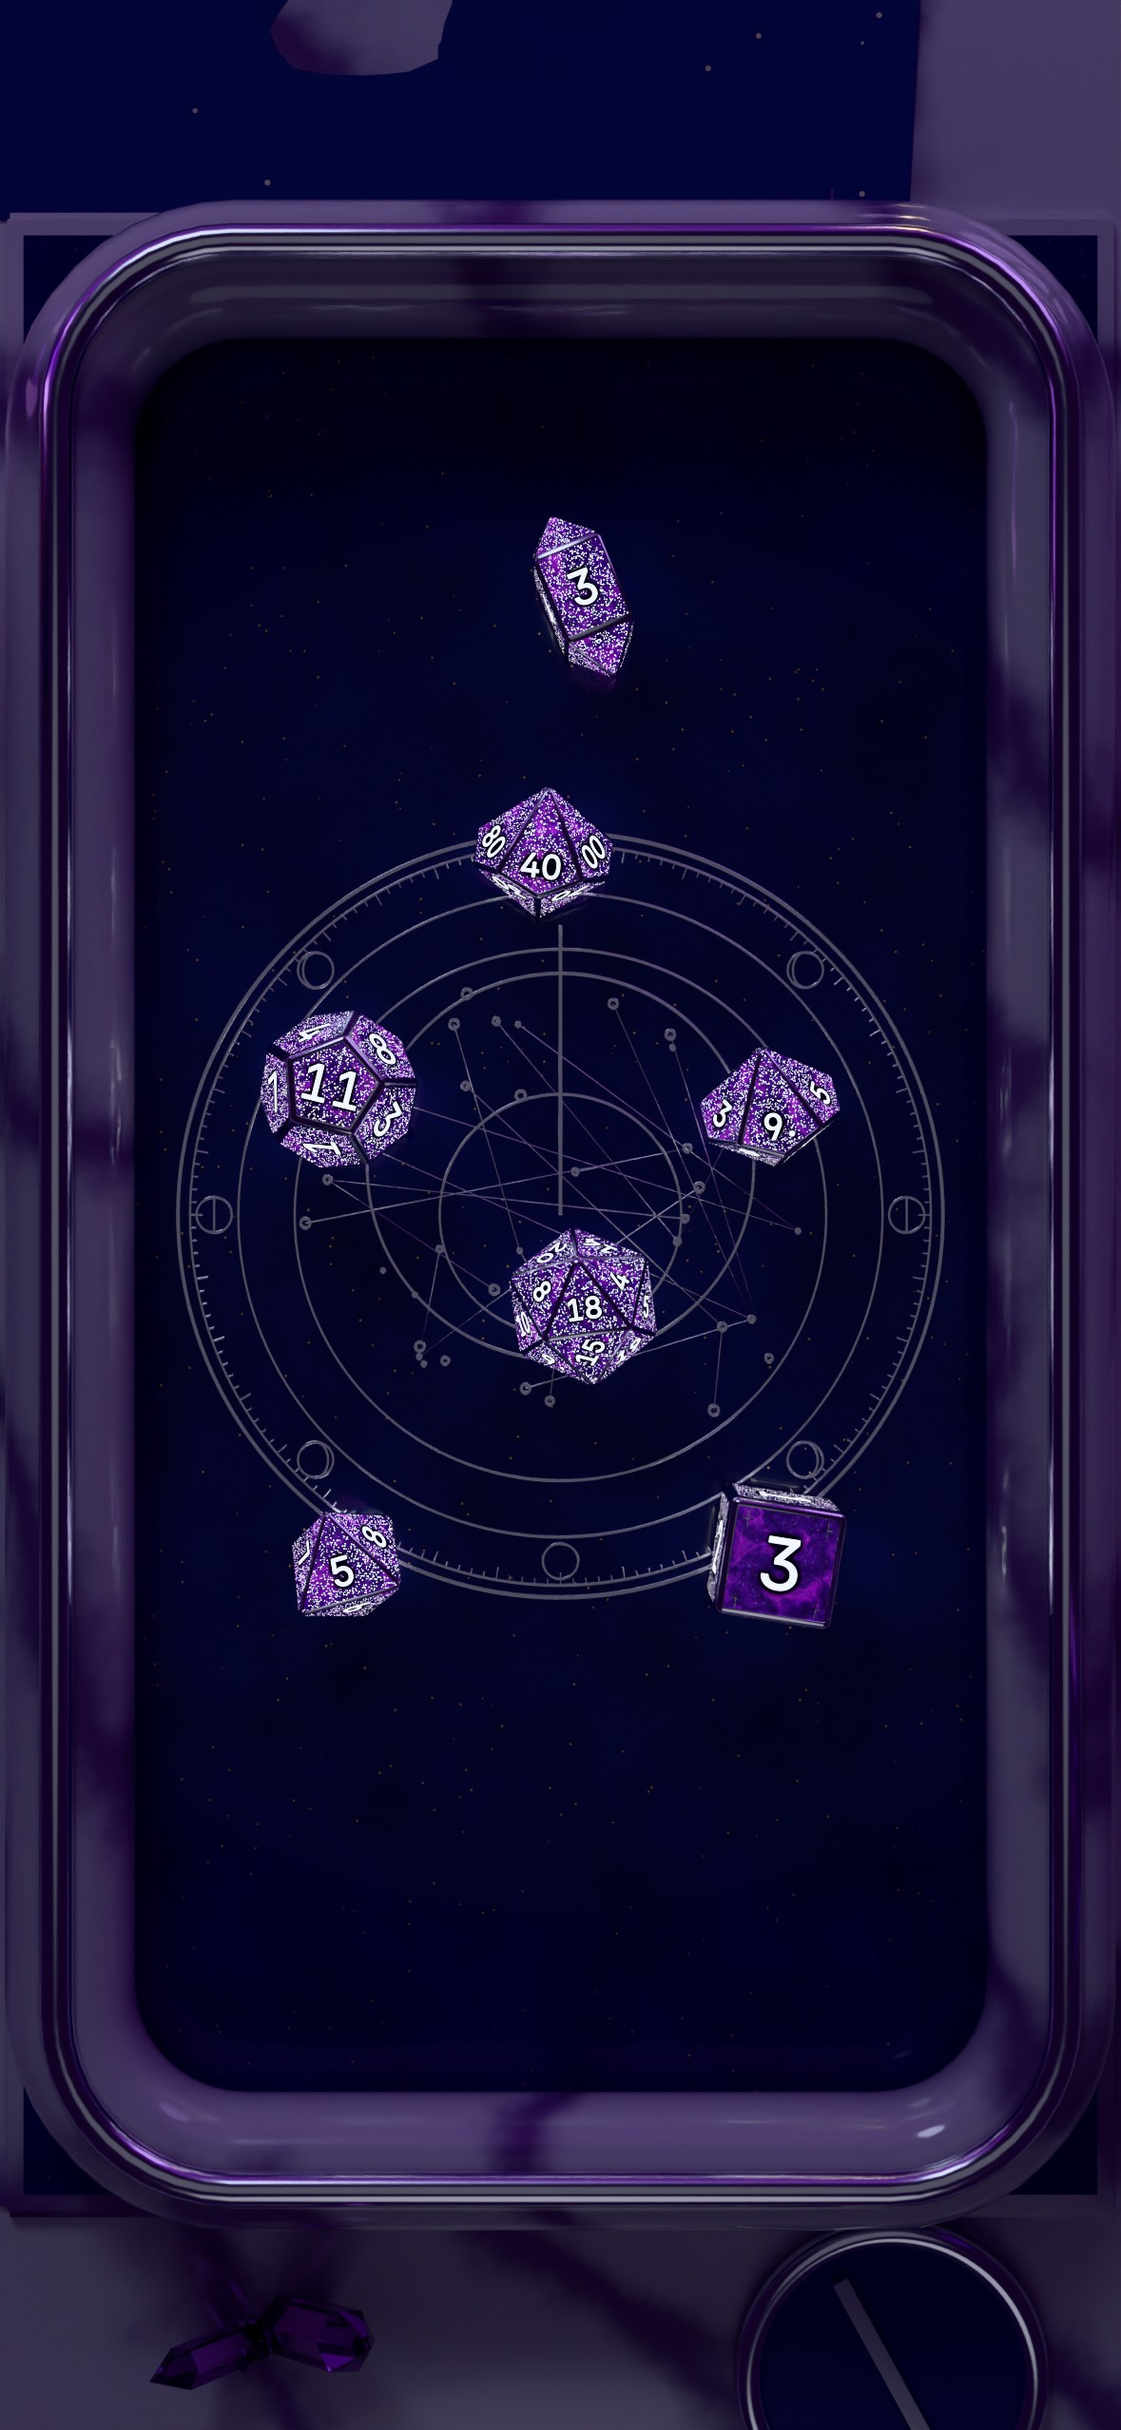
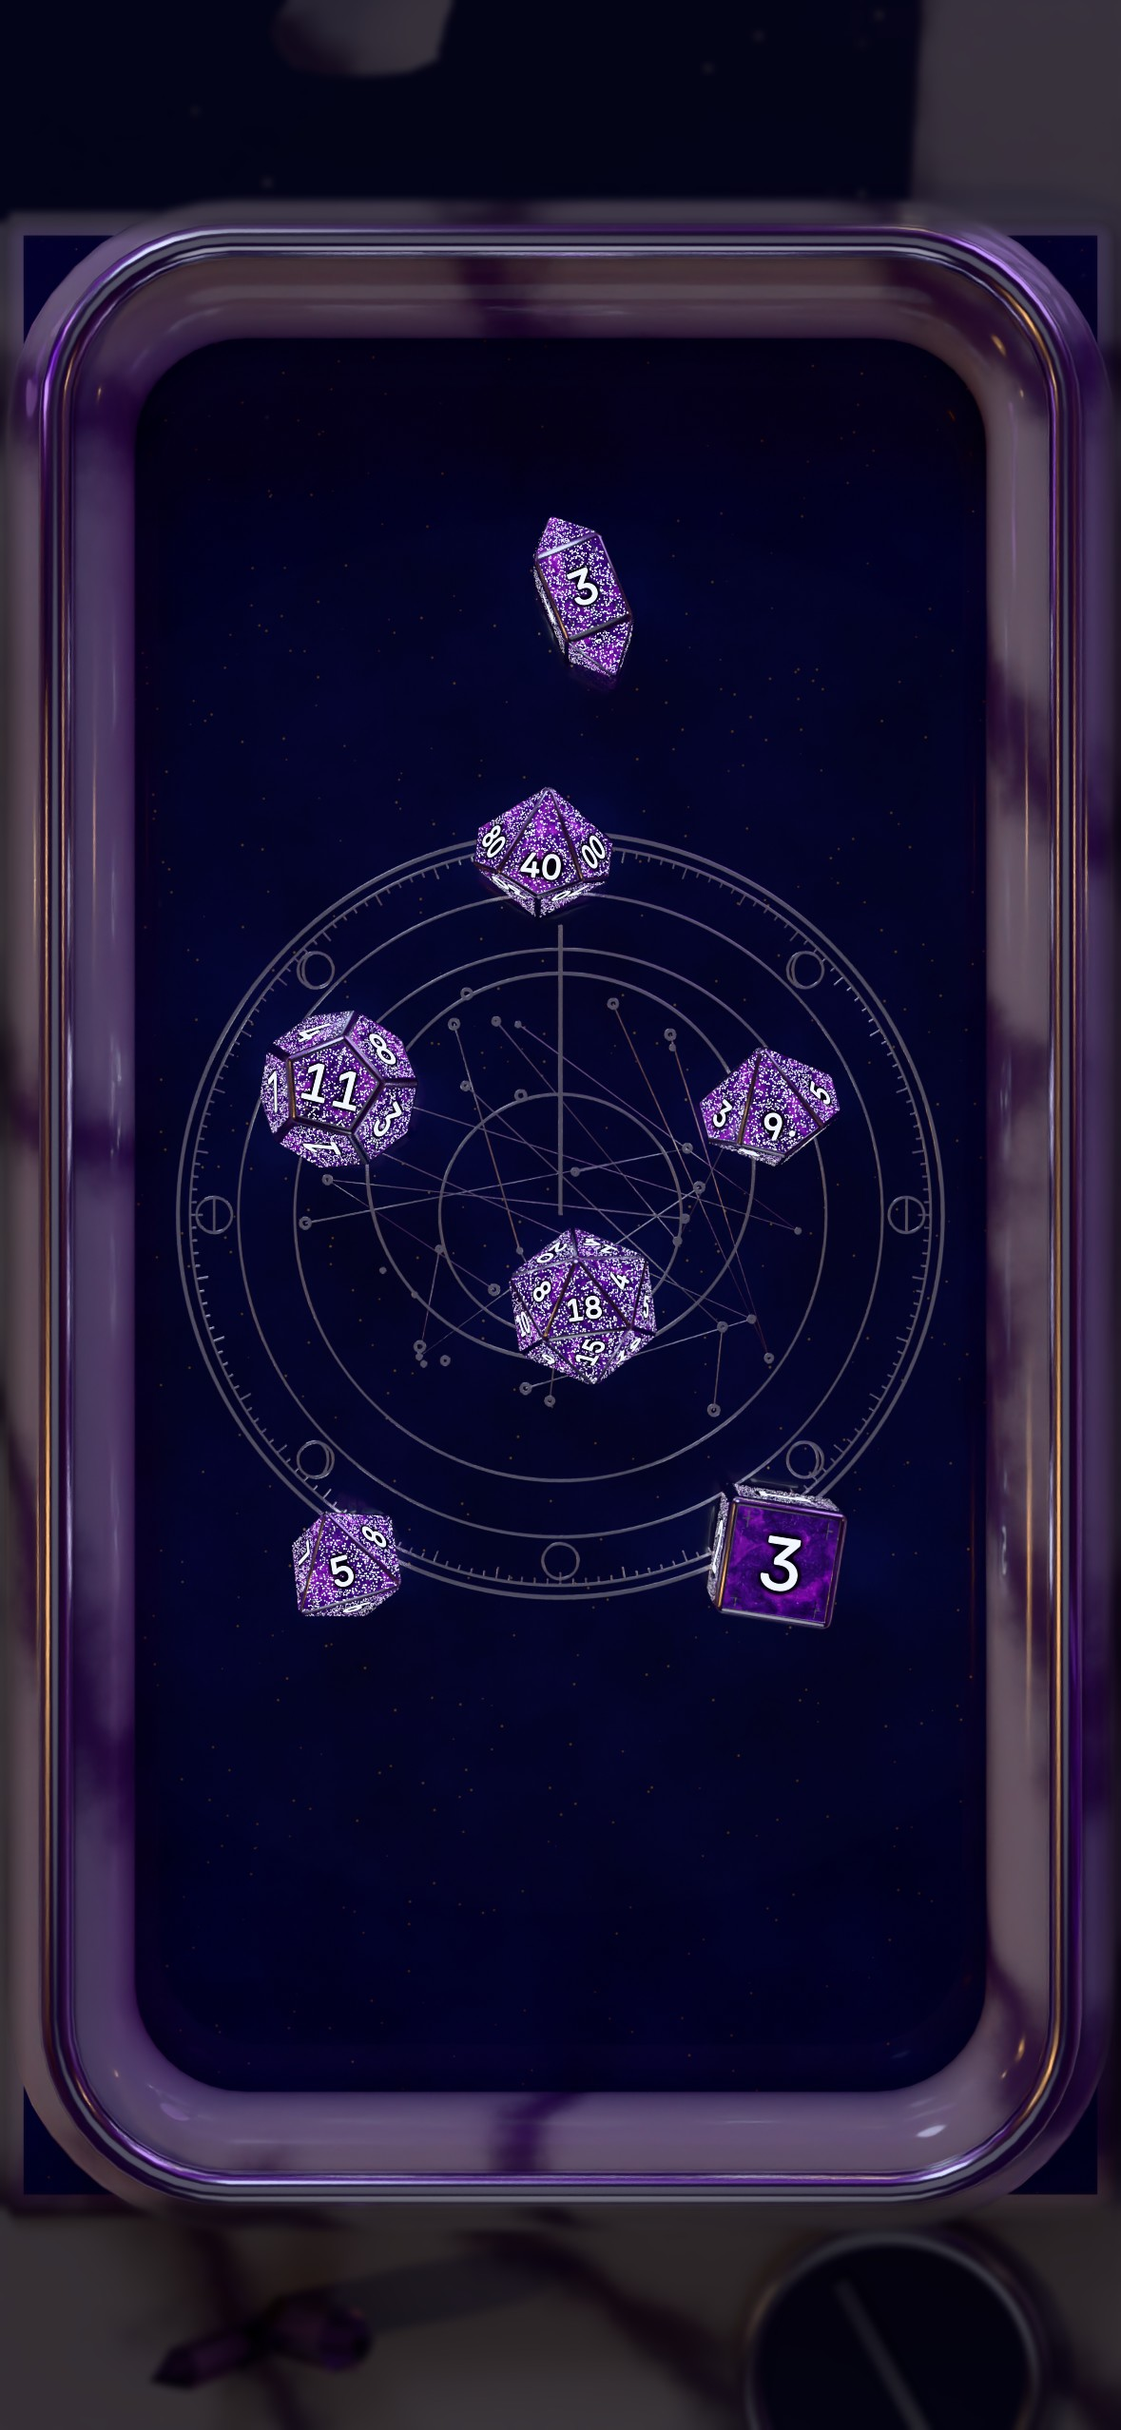
Game rooms: Celestial observatory loggia; open-back shell, armchair, leather, half-timber in the kit

diff --git a/dart3d/example/tool/dice_lookdev/build_env_hearthside.py b/dart3d/example/tool/dice_lookdev/build_env_hearthside.py
@@ -16,6 +16,7 @@ import bpy
 
 import env_common as E
 import env_props as P
+import room_common as RC
 
 W, D = E.TRAY_W, E.TRAY_D
 
@@ -106,9 +107,7 @@ def build(scene):
             E.sphere("bud", 0.35, (x0 - math.sin(a) * (-11 - j * 0.7), y0 - 11 - j * 0.7, 0.55), bud, subdiv=1,
                      scale=(1, 1.4, 1))
     P.candle(scene, W / 2 + 10, top + 8, 0.0, h=10, seed=4, energy=45)
-    # the hearth: a warm glow + ember light behind the table
-    E.cube("hearth", (80, 10, 40), (0, top + 55, 20), E.simple("Hearth stone", (0.08, 0.06, 0.05), 0.9))
-    E.cube("hearth_mouth", (40, 3, 22), (0, top + 49.5, 12), E.emissive("Hearth fire", (1.0, 0.38, 0.08), 6.0))
+    # the hearth's glow on the tray (the fireplace itself is in room())
     E.light(scene, "AREA", "fire", (0, top + 45, 12), 16000, color=(1.0, 0.5, 0.2), size=35, target=(0, 0, 0))
     E.light(scene, "AREA", "cool_fill", (-50, -40, 40), 1200, color=(0.55, 0.65, 1.0), size=40, target=(0, 0, 0))
     # reading key from the side (its hotspot misses the top faces), strong
@@ -123,4 +122,66 @@ def build(scene):
                         "d10t": ((-0.3, 9.0), 40, -6), "d8": ((-3.8, -8.6), 5, 16), "d6": ((3.8, -8.4), 3, -9),
                         "d4": ((0.4, 13.0), 3, 22)},
         hero=dict(dist=32, elev=30, az=-8, lens=65, fstop=2.8),
+        play_view=True, tray_half=(W / 2 + 4, D / 2 + 6), room_cam=room(scene),
     )
+
+
+def room(scene):
+    """The fireside reading nook (concept: room-concepts/hearthside-room).
+
+    A rough-stone fireplace right behind the oak table, bookcases either
+    side of it, a leather wing armchair with a wine-red throw by the
+    rain-streaked window on the right, a lavender jug on the sill, a
+    patterned rug. Lights from four sides: the fire (warm key from the
+    back), the window (cool blue-grey fill from the right), a violet-glass
+    lantern (the set's accent, left) and a brass floor lamp by the chair;
+    plus the tray's reading key.
+    """
+    wall = RC.plaster("Nook plaster", (0.22, 0.17, 0.12))
+    oak = P.dark_wood("Nook oak", c1=(0.05, 0.025, 0.012), c2=(0.16, 0.085, 0.04))
+    RC.shell(half_w=180, back=150, front=-190, height=260, wall=wall, floor=RC.planks(),
+             openings={"right": [(70, 45, 80, 110)]})
+    RC.beams(oak, n=3)
+    RC.work_table(200, 150, top_z=0.0, thick=6.0, mat=oak, leg_r=6, y=20, top=False)
+    RC.fireplace(scene, "back", 0, w=150, h=125, depth=40, energy=120000, seed=3,
+                 mat=RC.stone("Nook fieldstone", (0.08, 0.07, 0.06), (0.24, 0.2, 0.16), scale=0.03, blocks=True))
+    for u, seed in ((-125, 5), (125, 6)):
+        RC.bookshelf("back", u, w=90, h=220, depth=30, rows=7, seed=seed, mat=oak)
+    rain = RC.sky("Rainy dusk", (0.05, 0.07, 0.14), (0.14, 0.16, 0.26), stars=0.0, strength=0.8,
+                  skyline=((0.03, 0.04, 0.07), 0.3))
+    RC.window("right", 70, 45, 80, 110, rain, oak, mullions=(2, 3), glow=(45000, (0.55, 0.65, 0.95)))
+    # rain streaks on the glass (thin emissive-ish droplets on a pane)
+    drops, k = E.material("Rain on glass")
+    obj = k.coords().outputs["Object"]
+    v = k.voronoi(obj, 0.35)
+    dr = k.math("LESS_THAN", v.outputs["Distance"], 0.08)
+    k.surface(k.mix_shader(dr, k.node("ShaderNodeBsdfTransparent").outputs[0],
+                           k.bsdf(Base_Color=(0.8, 0.85, 1.0, 1), Roughness=0.05, Transmission_Weight=0.8,
+                                  Emission_Color=(0.5, 0.6, 0.9, 1), Emission_Strength=0.6)))
+    pane = E.plane("rain_pane", 80, 110, RC.to_world("right", 70, (0, 4, 45)), drops)
+    pane.rotation_euler = (math.radians(90), 0, math.radians(-90))
+    pane.visible_shadow = False
+    # the armchair by the window with a throw; a jug of lavender on the sill
+    RC.armchair(120, 95, rot=math.radians(150), mat=RC.leather("Chair leather", (0.14, 0.04, 0.025)),
+                throw=P.velvet("Throw wool", color=(0.2, 0.02, 0.04), stars=False))
+    jug = RC.to_world("right", 40, (0, -4, RC.FLOOR_Z + 121 - 76 + 76 - 10))
+    E.cylinder("lavender_jug", 7, 18, (jug.x, jug.y, 45 - 55 + 9 + 2), E.simple("Jug glaze", (0.3, 0.3, 0.32), 0.3),
+               segs=24, bevel=1.0)
+    rng = random.Random(4)
+    bud = E.simple("Sill lavender", (0.35, 0.22, 0.6), 0.6)
+    for i in range(12):
+        bx, by = jug.x + rng.uniform(-6, 6), jug.y + rng.uniform(-6, 6)
+        E.cylinder("sill_stem", 0.3, 26, (bx, by, 12 + 13), E.simple("Sill stem", (0.18, 0.25, 0.12), 0.6), segs=6)
+        E.sphere("sill_bud", 1.2, (bx, by, 12 + 26 + 3), bud, subdiv=1, scale=(1, 1, 3))
+    # a brass floor lamp beside the chair (warm, right-front) and a violet lantern (left)
+    brass = P.brass("Lamp brass", worn=0.4)
+    E.cylinder("floor_lamp_post", 1.5, 150, (150, 20, RC.FLOOR_Z + 75), brass, segs=12)
+    E.cylinder("floor_lamp_foot", 14, 3, (150, 20, RC.FLOOR_Z + 1.5), brass, segs=32)
+    E.cylinder("floor_lamp_shade", 22, 26, (150, 20, RC.FLOOR_Z + 160), E.simple("Lamp shade", (0.6, 0.45, 0.25), 0.8,
+               Transmission_Weight=0.3, Emission_Color=(1.0, 0.7, 0.4, 1), Emission_Strength=1.0), segs=32, r2=13,
+               cap=False).visible_shadow = False
+    E.light(scene, "POINT", "floor_lamp", (150, 20, RC.FLOOR_Z + 155), 25000, color=(1.0, 0.72, 0.45), size=10)
+    RC.hanging_lantern(scene, -95, 10, 80, energy=18000, color=(0.75, 0.4, 1.0), glass_color=(0.6, 0.3, 0.9),
+                       mat=brass)
+    RC.rug(0, -20, 280, 220, (0.25, 0.08, 0.05), (0.08, 0.05, 0.1), name="Nook rug")
+    return dict(loc=(-14, -72, 44), target=(4, 100, 2), lens=20, fstop=4.0, focus=(0, 0, 4))

diff --git a/dart3d/example/tool/dice_lookdev/build_env_oldroad.py b/dart3d/example/tool/dice_lookdev/build_env_oldroad.py
@@ -11,6 +11,7 @@ import math
 
 import env_common as E
 import env_props as P
+import room_common as RC
 
 W, D = E.TRAY_W, E.TRAY_D
 RIM_T, RIM_H = 2.4, 2.6
@@ -80,6 +81,61 @@ def build(scene):
     E.cube("dagger_sheath", (1.6, 13, 0.9), (1.0, bot - 4.4, 0.45), leather("Sheath", (0.12, 0.05, 0.02)),
            bevel=0.3).rotation_euler = (0, 0, math.radians(84))
     E.haze_box("haze", (160, 180, 70), (0, 20, 34), 0.003, color=(1.0, 0.9, 0.8), noise_scale=0.03)
+    rc = room(scene, table, top)
     return dict(
         samples=128, exposure=0.9, topdown=dict(width=W + 2 * RIM_T + 1.0), hero=dict(dist=32, elev=30, az=-6, lens=65, fstop=2.8),
+        play_view=True, tray_half=(W / 2 + RIM_T, D / 2 + RIM_T), room_cam=rc,
     )
+
+
+def room(scene, table, top):
+    """The wayfarer's inn corner (concept: room-concepts/oldroad-room).
+
+    Timber-and-plaster walls, a small window at the back onto the blue hour,
+    a fieldstone hearth on the right wall with a fur-covered stool before it,
+    a travel pack on a chair and a walking staff leaning on the table, a
+    barrel and a shelf of mugs and jugs. Lights from four sides: the tin
+    lantern on the table (warm key, left), the hearth (warm side light,
+    right), the window (cool dusk, back) and a candle on the side table
+    (back-right); plus the tray's overhead and warm key.
+    """
+    wy = top + 75
+    wall = RC.plaster("Inn plaster", (0.3, 0.24, 0.17))
+    timber = P.dark_wood("Inn timber", c1=(0.03, 0.017, 0.008), c2=(0.09, 0.05, 0.022), rough=0.8, varnish=0.0)
+    RC.shell(half_w=170, back=wy, front=-180, height=240, wall=wall, floor=RC.planks("Inn floor"),
+             openings={"back": [(0, 45, 70, 80)]})
+    RC.half_timber("back", (-165, -60, 60, 165), timber, rails=(RC.FLOOR_Z + 95,))
+    RC.half_timber("left", (-150, -40, 70), timber, rails=(RC.FLOOR_Z + 95,))
+    RC.half_timber("right", (-150, 70), timber, rails=(RC.FLOOR_Z + 170,), braces=False)
+    RC.beams(timber, n=3, size=(18, 22))
+    dusk = RC.sky("Inn dusk", (0.03, 0.06, 0.18), (0.35, 0.22, 0.3), strength=0.8, skyline=((0.02, 0.025, 0.05), 0.3))
+    RC.window("back", 0, 45, 70, 80, dusk, timber, mullions=(1, 1), sill=True, glow=(18000, (0.55, 0.55, 1.0)))
+    RC.work_table(200, 150, top_z=0.0, thick=6.0, mat=table, leg_r=7, y=20, top=False)
+    RC.fireplace(scene, "right", -30, w=120, h=110, depth=45, energy=130000, seed=7,
+                 mat=RC.stone("Inn fieldstone", (0.1, 0.085, 0.07), (0.26, 0.22, 0.17), scale=0.03))
+    fur = E.simple("Stool fur", (0.25, 0.2, 0.15), 0.95, Sheen_Weight=1.0)
+    E.cube("stool_seat", (40, 34, 6), (105, -40, RC.FLOOR_Z + 40), timber, bevel=0.8)
+    for sx in (-1, 1):
+        for sy in (-1, 1):
+            E.cube("stool_leg", (4, 4, 38), (105 + sx * 16, -40 + sy * 13, RC.FLOOR_Z + 19), timber)
+    E.rock("stool_fur", 22, (105, -40, RC.FLOOR_Z + 46), fur, seed=8, squash=(1.0, 0.85, 0.25), strength=0.25)
+    # the travel pack on a chair behind the table, the staff leaning on the table edge
+    RC.chair(60, 115, rot=math.radians(180), mat=timber)
+    pack = leather("Pack canvas", (0.12, 0.1, 0.06))
+    E.rock("pack", 22, (60, 110, RC.FLOOR_Z + 68), pack, seed=11, squash=(0.9, 0.6, 1.3), strength=0.15)
+    E.cylinder("bedroll", 9, 44, (60, 110, RC.FLOOR_Z + 98), E.simple("Bedroll wool", (0.12, 0.14, 0.08), 0.9),
+               segs=24).rotation_euler = (0, math.radians(90), 0)
+    for sx in (-1, 1):
+        E.cube("pack_strap", (3, 0.6, 40), (60 + sx * 10, 96, RC.FLOOR_Z + 70), leather("Pack strap"))
+    staff = E.cylinder("staff", 2.0, 170, (95, 60, RC.FLOOR_Z + 82), timber, segs=12, r2=1.4)
+    staff.rotation_euler = (math.radians(8), math.radians(-12), 0)
+    RC.barrel(-140, 110, r=24, h=80, mat=timber)
+    RC.wall_shelf("left", 40, 55, w=120, seed=21, kind="jars",
+                  palette=[(0.25, 0.15, 0.08), (0.3, 0.28, 0.25), (0.12, 0.08, 0.05)], mat=timber)
+    # side table with a candle, back-right
+    E.cube("side_table", (45, 45, 4), (130, 120, RC.FLOOR_Z + 72), timber, bevel=0.5)
+    E.cylinder("side_table_leg", 3, 70, (130, 120, RC.FLOOR_Z + 35), timber, segs=12)
+    P.candle(scene, 130, 120, RC.FLOOR_Z + 74, h=10, r=1.8, seed=9, light=False)
+    E.light(scene, "POINT", "side_candle", (130, 120, RC.FLOOR_Z + 90), 4000, color=(1.0, 0.6, 0.3), size=2)
+    RC.rug(0, -40, 240, 160, (0.3, 0.08, 0.05), (0.12, 0.05, 0.03), name="Inn rug")
+    return dict(loc=(18, -70, 40), target=(-2, 90, 4), lens=20, fstop=4.0, focus=(0, 0, 2))

diff --git a/dart3d/example/tool/dice_lookdev/room_common.py b/dart3d/example/tool/dice_lookdev/room_common.py
@@ -248,6 +248,31 @@ def shell(half_w=220, back=260, front=-160, height=300, wall=None, floor=None, c
         E.plane("ceiling", 2 * half_w + 40, back - front + 40, (0, (back + front) / 2, FLOOR_Z + height), ceiling)
 
 
+def half_timber(wall, us, mat, rails=(), size=16, braces=True):
+    """Timber framing on a plaster wall: posts at the u positions in `us`,
+    horizontal rails at the (world) heights in `rails`, and diagonal braces."""
+    r = _ROOM
+    parts = []
+    L = 2 * r["half_w"] if wall == "back" else r["back"] - r["front"]
+    uc = 0.0 if wall == "back" else (r["back"] + r["front"]) / 2
+    sgn = -1 if wall == "right" else 1  # local x runs along -y on the right wall
+    h = r["height"]
+    for u in us:
+        parts.append(E.cube("timber_post", (size, 6, h), ((u - uc) * sgn, -3, h / 2), mat))
+    for z in rails:
+        parts.append(E.cube("timber_rail", (L, 6, size * 0.8), (0, -3, z - FLOOR_Z), mat))
+    if braces and len(us) > 1 and rails:
+        z0 = rails[0] - FLOOR_Z
+        for a, b in zip(us[:-1], us[1:]):
+            ln = math.hypot(b - a, h - z0)
+            br = E.cube("timber_brace", (size * 0.7, 5, ln * 0.5), (((a + b) / 2 - uc) * sgn - (b - a) * 0.25 * sgn,
+                                                                     -3, z0 + (h - z0) * 0.25), mat)
+            br.rotation_euler = (0, -math.atan2(b - a, h - z0) * sgn * 0.9, 0)
+            parts.append(br)
+    loc, rz = _wall_frame(wall, uc)
+    return _group("half_timber", parts, loc + Vector((0, 0, FLOOR_Z)), rz)
+
+
 def beams(mat, n=4, size=(22, 26), z=None, along="x"):
     """Heavy ceiling beams (timber frame)."""
     r = _ROOM
@@ -615,6 +640,32 @@ def chair(x, y, rot=0.0, mat=None, seat_h=46, back_h=50, w=44):
     parts.append(E.cube("chair_rail", (w, 3, 12), (0, w / 2 - 3, seat_h + back_h - 8), mat, bevel=0.5))
     parts.append(E.cube("chair_rail", (w, 3, 6), (0, w / 2 - 3, seat_h + back_h * 0.45), mat, bevel=0.5))
     return _group("chair", parts, Vector((x, y, FLOOR_Z)), rot)
+
+
+def leather(name="Leather", color=(0.12, 0.035, 0.02)):
+    m, k = E.material(name)
+    obj = k.coords().outputs["Object"]
+    n = k.noise(obj, 0.6, 6, 0.6).outputs["Fac"]
+    col = k.mix(k.math("MULTIPLY", n, 0.5), (*color, 1), tuple(c * 0.45 for c in color) + (1,))
+    k.surface(k.bsdf(Base_Color=col, Roughness=k.math("ADD", k.math("MULTIPLY", n, 0.3), 0.35), Coat_Weight=0.2,
+                     Normal=k.bump(k.noise(obj, 3.0, 4).outputs["Fac"], 0.2, 0.2)))
+    return m
+
+
+def armchair(x, y, rot=0.0, mat=None, w=90, throw=None):
+    """An overstuffed wing armchair (rounded blocks) facing -y before rotation;
+    throw = a material for a blanket draped over one arm."""
+    mat = mat or leather()
+    parts = [E.cube("chair_base", (w, 80, 38), (0, 0, 19), mat, bevel=6),
+             E.cube("chair_cushion", (w - 30, 70, 14), (0, -5, 44), mat, bevel=5),
+             E.cube("chair_back", (w, 20, 70), (0, 32, 68), mat, bevel=7)]
+    for sx in (-1, 1):
+        parts.append(E.cube("chair_arm", (16, 78, 26), (sx * (w / 2 - 8), 0, 50), mat, bevel=6))
+        parts.append(E.cube("chair_wing", (12, 24, 40), (sx * (w / 2 - 6), 26, 88), mat, bevel=5))
+    if throw:
+        t = E.rock("chair_throw", 26, (w / 2 - 12, -5, 60), throw, seed=5, squash=(0.5, 1.3, 0.7), strength=0.3)
+        parts.append(t)
+    return _group("armchair", parts, Vector((x, y, FLOOR_Z)), rot)
 
 
 def cabinet(wall, u, w=90, h=90, depth=55, z0=None, mat=None, top_mat=None, doors=2):

diff --git a/dart3d/example/tool/dice_lookdev/build_env_celestial.py b/dart3d/example/tool/dice_lookdev/build_env_celestial.py
@@ -170,8 +170,13 @@ def room(scene, am):
     a brass lantern hung on the left (warm), the amethyst glow (violet,
     right) and two sconces on the side walls; plus the tray's soft front.
     """
-    mar = marble("Loggia marble")
-    RC.shell(half_w=200, back=95, front=-200, height=320, wall=mar, floor=marble("Loggia floor"), floor_z=-60.0,
+    mar, k = E.material("Loggia marble")  # pale, fine-veined (the tray's marble is too bold at room scale)
+    obj = k.coords().outputs["Object"]
+    vein = k.noise(obj, 0.02, 8, 0.7, dist=2.0).outputs["Fac"]
+    v = k.math("LESS_THAN", k.math("ABSOLUTE", k.math("SUBTRACT", vein, 0.5)), 0.012)
+    k.surface(k.bsdf(Base_Color=k.mix(v, (0.62, 0.6, 0.66, 1), (0.3, 0.28, 0.36, 1)), Roughness=0.25,
+                     Coat_Weight=0.3))
+    RC.shell(half_w=200, back=95, front=-200, height=320, wall=mar, floor=RC.tiles("Loggia floor", (0.35, 0.33, 0.4), (0.06, 0.05, 0.08), scale=0.02), floor_z=-60.0,
              back_wall=False)
     RC.work_table(180, 140, top_z=-6.0, thick=0.1, mat=mar, leg_r=7, y=20, top=False)
     # the arcade: columns at the balustrade and a lintel under the open sky
@@ -202,4 +207,19 @@ def room(scene, am):
     RC.hanging_lantern(scene, -80, -20, 70, energy=35000, mat=brass, glass_color=(1.0, 0.75, 0.45))
     for side in ("left", "right"):
         RC.sconce(scene, side, 40, 120, energy=9000)
-    return dict(loc=(16, -80, 48), target=(0, 120, 20), lens=20, fstop=4.0, focus=(0, 0, 2))
+    # a star layer in front of the nebula, sized for the room shot
+    sm, k = E.material("Room stars")
+    tc = k.coords().outputs["Generated"]
+    v = k.voronoi(tc, 90.0)
+    st = k.math("LESS_THAN", v.outputs["Distance"], k.math("MULTIPLY", v.outputs["Color"], 0.07))
+    k.surface(k.mix_shader(st, k.node("ShaderNodeBsdfTransparent").outputs[0],
+                           k.emission((0.95, 0.9, 1.0, 1), 5.0)))
+    card = E.plane("room_stars", 1150, 480, (0, 420, 110), sm)
+    card.rotation_euler = (math.radians(90), 0, 0)
+    card.visible_shadow = False
+    # a ringed planet and a pale moon hanging in the nebula
+    moon = E.sphere("sky_moon", 45, (-170, 430, 190), E.emissive("Sky moon", (0.5, 0.48, 0.62), 0.9), subdiv=4)
+    moon.visible_shadow = False
+    pl = E.sphere("sky_planet", 22, (190, 430, 250), E.emissive("Sky planet", (0.4, 0.33, 0.55), 0.7), subdiv=4)
+    pl.visible_shadow = False
+    return dict(loc=(-10, -75, 22), target=(5, 100, 45), lens=18, fstop=4.0, focus=(0, 0, 2))

diff --git a/docs/design/dice-lookdev.md b/docs/design/dice-lookdev.md
@@ -1098,6 +1098,19 @@ Lighting recipes (the tray lights are unchanged unless noted):
   Camera: 20 mm, f/4. Gate: numeral 11.81 (d12), die vs tray 2.92, stroke
   0.124–0.130, PASS.
 
+- **Celestial — the observatory loggia.** An open marble arcade on the star
+  balcony (no back wall): columns and a lintel frame the nebula with a
+  room-scale star layer, a pale moon and a small planet; violet hangings
+  with a gold lattice on the side walls, a brass telescope on a tripod
+  (back-left), a great floor armillary (right) and an amethyst geode.
+  Lights: the tray's moon (cool, back-left) and soft front, a brass
+  lantern hung on the left (35 kW, warm key), the geode's shadowless
+  violet glow (30 kW, right, the accent) and brass sconces on both side
+  walls (9 kW each). Room marble is a pale fine-veined variant (the tray's
+  bold marble reads as zebra stripes at room scale). Camera: 18 mm, low,
+  looking up into the sky. Gate: numeral 11.35 (d12), die vs tray 2.45,
+  stroke 0.121–0.130, PASS.
+
 ## 4. dart3d features to verify (before building these for real)
 
 1. **Emissive intensity > 1 + bloom threshold** on both platforms, and
